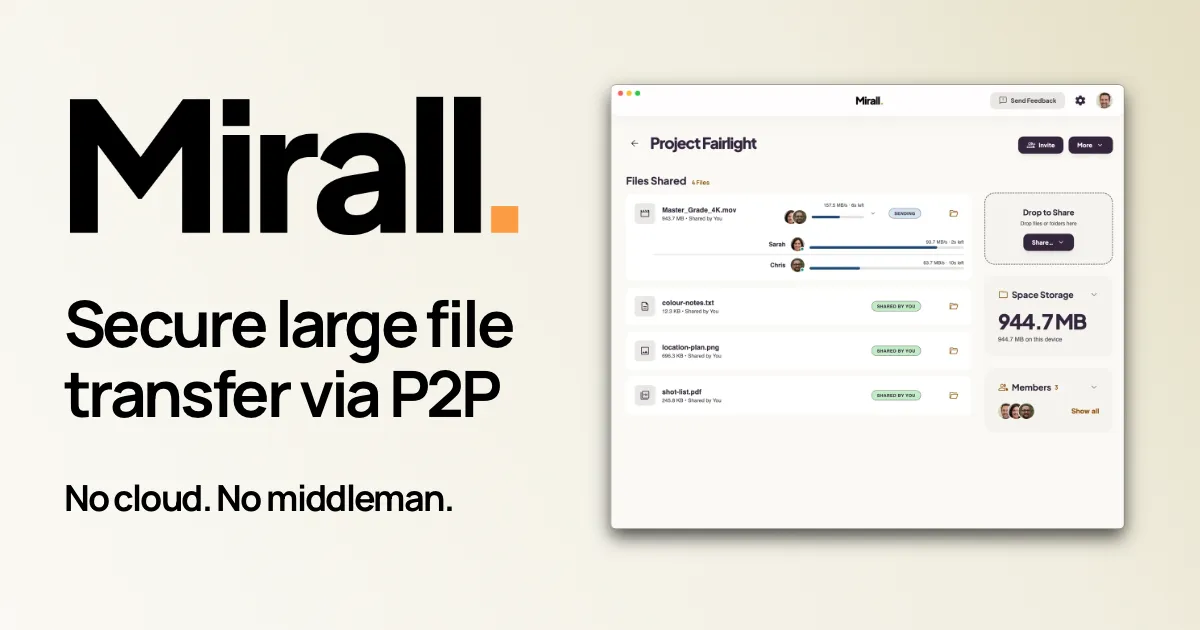
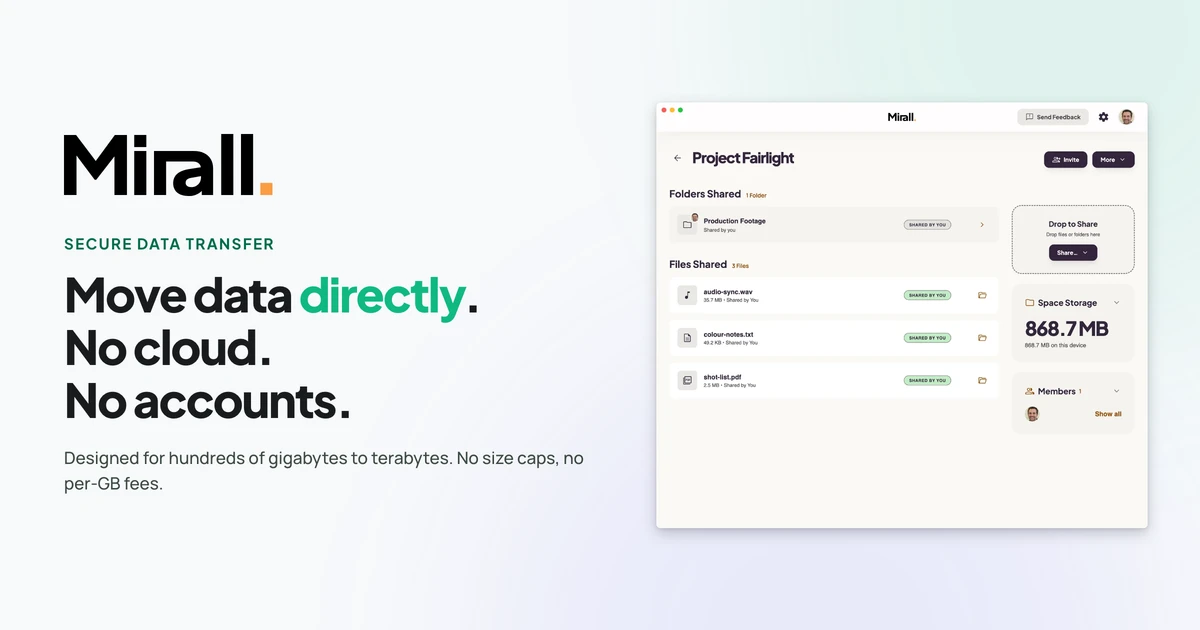
[fix] Rebuild the social share card on the current brand
Sharing a mirall.app link anywhere -- Slack, WhatsApp, iMessage, X -- unfurled
a card carrying the pre-August wordmark and a screenshot of the app from two
releases back. The card is the one asset nobody working on the site ever
looks at: it only renders in someone else's chat window, so it went stale in
public and stayed that way.

Generated rather than hand-made, for that reason. scripts/generate-og-image.mjs
composes the card from the three things that already move with the site --
public/logo.svg, src/assets/hero-screenshot.webp, and hero.title /
hero.industries out of en.json -- so re-running it is now the whole job, and
the card cannot quote a headline the homepage has stopped using. It follows
generate-favicons.mjs: committed script, committed output, never run at build
time.

Rendered through headless Chrome because the headline is set in the site's own
variable fonts, at 2x and resized down to the 1200x630 the meta tags declare.
Not shipped at 2x: an unfurler does not read that as retina, it reads it as a
file whose dimensions disagree with og:image:width, and some then refuse it.

The URL carries a ?v token now. Every unfurler keys its cache on the full URL
and holds it for days to weeks, and most offer no public purge, so replacing
the file in place would have left everyone who has already shared a link
looking at the old card indefinitely. index.html and schema.ts must be bumped
together; the generator prints the reminder.
[…]

diff --git a/index.html b/index.html
@@ -17,14 +17,14 @@
     <meta property="og:title" content="Mirall — Secure Large File Transfer, No Cloud" />
     <meta property="og:description" content="Move hundreds of gigabytes or terabytes directly between devices — no size caps, no per-GB fees. End-to-end encrypted. No cloud storage, no accounts, no telemetry." />
     <meta property="og:url" content="https://mirall.app/" />
-    <meta property="og:image" content="https://mirall.app/og-image.webp" />
+    <meta property="og:image" content="https://mirall.app/og-image.webp?v=2026-09" />
     <meta property="og:image:width" content="1200" />
     <meta property="og:image:height" content="630" />
 
     <meta name="twitter:card" content="summary_large_image" />
     <meta name="twitter:title" content="Mirall — Secure Large File Transfer, No Cloud" />
     <meta name="twitter:description" content="Move hundreds of gigabytes or terabytes directly between devices — no size caps, no per-GB fees. End-to-end encrypted. No cloud storage, no accounts, no telemetry." />
-    <meta name="twitter:image" content="https://mirall.app/og-image.webp" />
+    <meta name="twitter:image" content="https://mirall.app/og-image.webp?v=2026-09" />
 
     <!-- Organization and WebSite are NOT declared here. They live in
          src/lib/schema.ts and are emitted on the home page only, which is where

diff --git a/src/lib/schema.ts b/src/lib/schema.ts
@@ -3,7 +3,13 @@ import { GITHUB_URL } from './links'
 
 export const SITE_URL = 'https://mirall.app'
 export const SITE_NAME = 'Mirall'
-export const DEFAULT_OG_IMAGE = `${SITE_URL}/og-image.webp`
+// The ?v token is a cache bust, not a filename. Slack, WhatsApp, iMessage, X and
+// LinkedIn all key their unfurl caches on the full URL and hold it for days to
+// weeks, with no public purge for most of them — so replacing the file in place
+// leaves everyone who has ever shared a link seeing the old card. Bump this
+// whenever scripts/generate-og-image.mjs produces a materially different image.
+// It must match the two tags in index.html, which is what a crawler reads.
+export const DEFAULT_OG_IMAGE = `${SITE_URL}/og-image.webp?v=2026-09`
 
 // Stable node ids. Without them each schema block declares its own anonymous
 // "Mirall", and a search engine has three unrelated nodes that happen to share a

diff --git a/src/components/Hero.tsx b/src/components/Hero.tsx
@@ -43,7 +43,7 @@ export default function Hero() {
           <img
             className="w-full h-auto object-cover relative"
             style={{ filter: 'drop-shadow(0 1px 1.5px rgba(16, 24, 40, 0.12)) drop-shadow(0 5px 7px rgba(16, 24, 40, 0.22))' }}
-            alt="Mirall desktop app — Shared Spaces home with All Spaces and Favorites tabs, three example spaces with member avatars, and Create / Join Space actions"
+            alt="Mirall desktop app — the Project Fairlight space, with a shared Production Footage folder, three shared files, a Drop to Share zone, and Space Storage and Members panels"
             src={heroSrc}
             srcSet={heroSrcSet}
             sizes="(min-width: 1024px) 580px, calc(100vw - 64px)"
